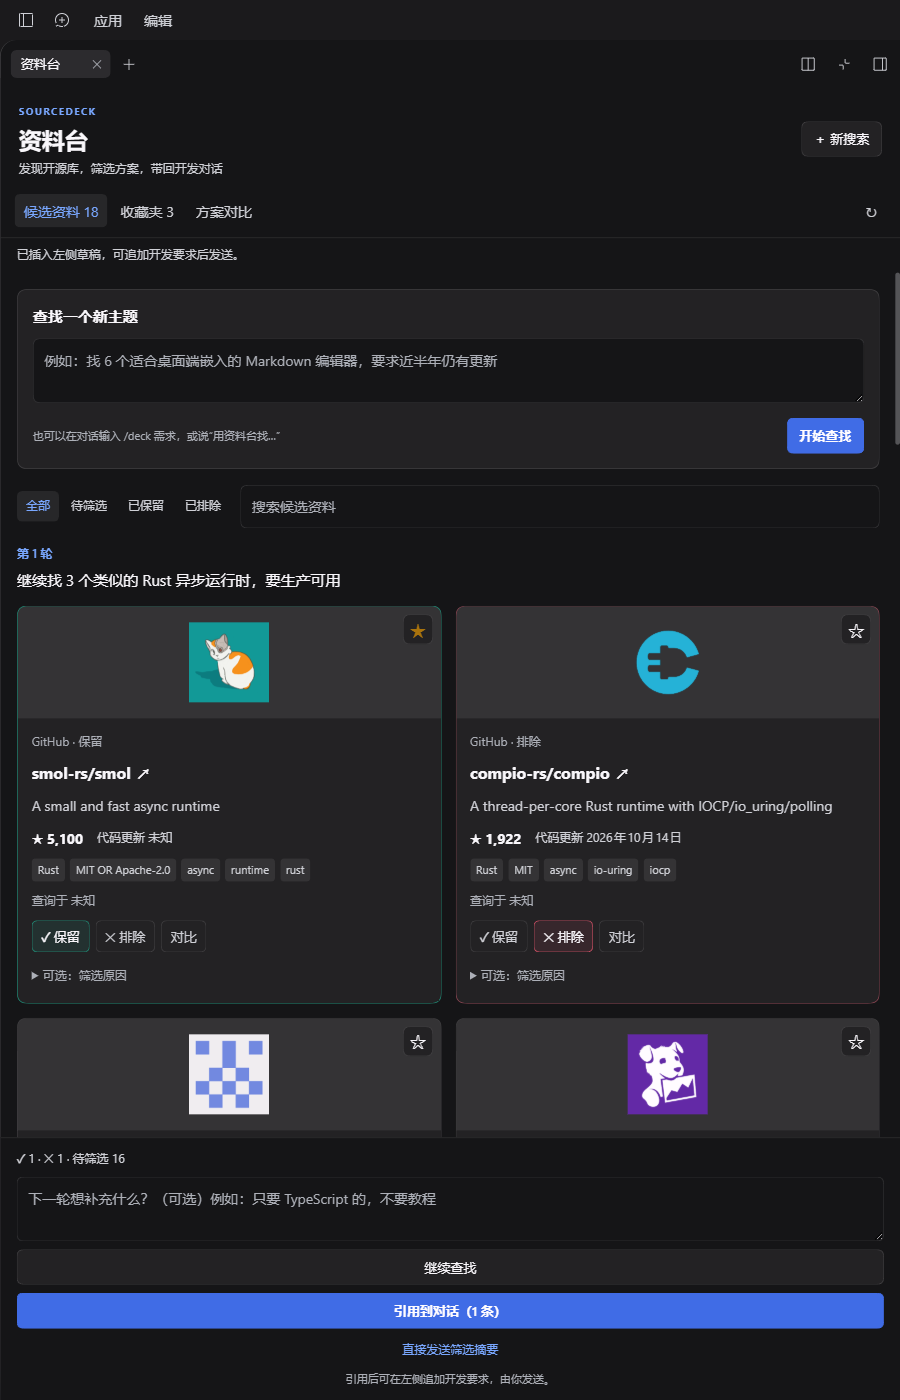
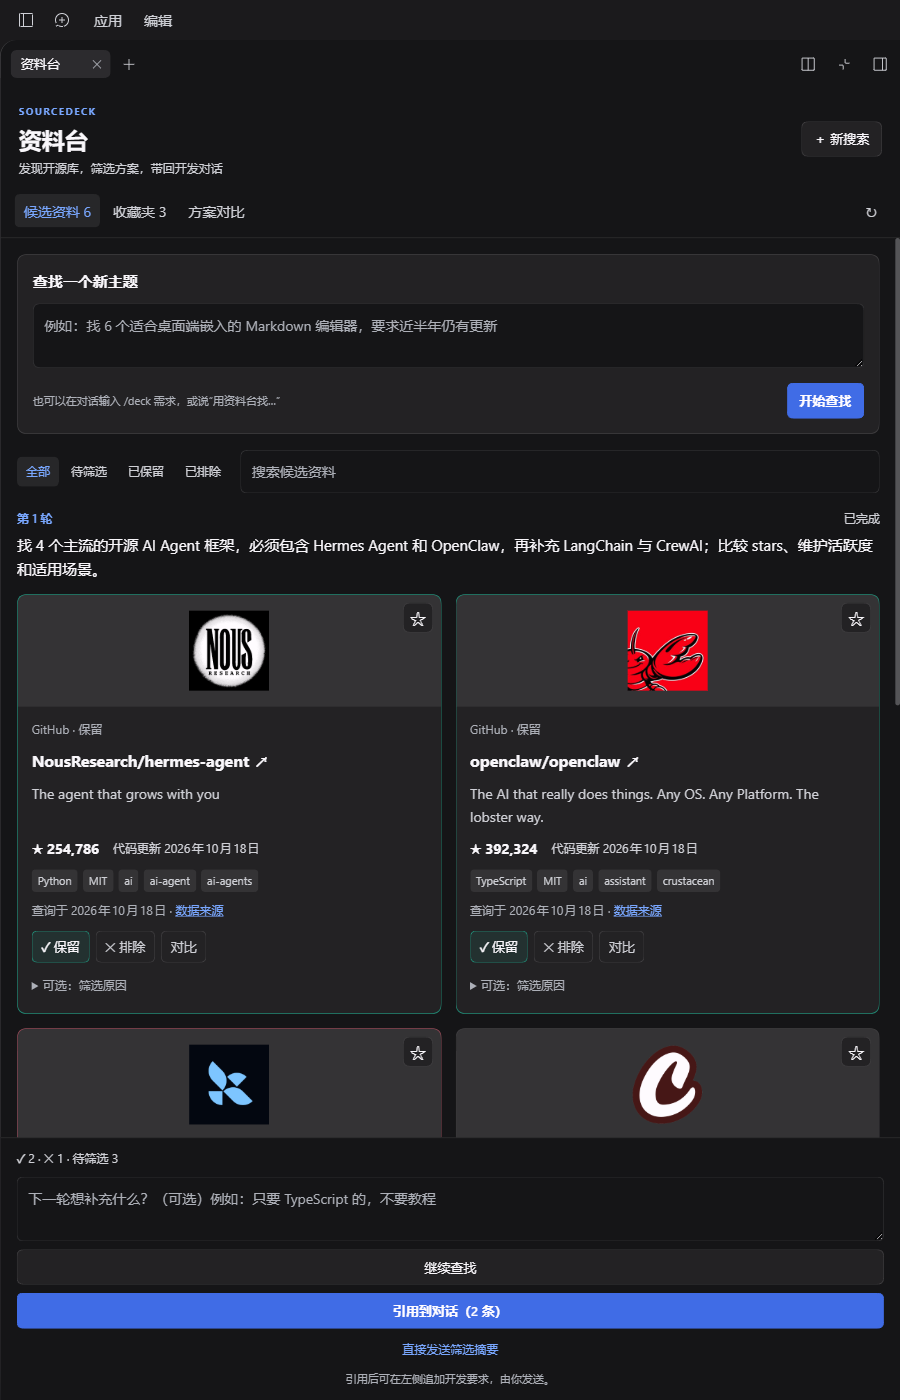
docs: use mainstream agent research in README screenshots
Replace the niche Rust runtime example with Hermes Agent, OpenClaw, LangChain, and CrewAI, so the screenshots immediately show the intended agent-research workflow.

diff --git a/README.en.md b/README.en.md
@@ -6,7 +6,7 @@ SourceDeck is a developer research workbench for DeepSeek Harness Desktop. Start
 
 ## Screenshots
 
-Real Host screenshots (light / dark) showing background research results, per-source keep/exclude decisions, screening reasons, and the reference entry:
+Real Host screenshots (light / dark), using mainstream agent projects such as Hermes Agent and OpenClaw, showing background research results, per-source keep/exclude decisions, screening reasons, and the reference entry:
 
 | Light | Dark |
 |---|---|
